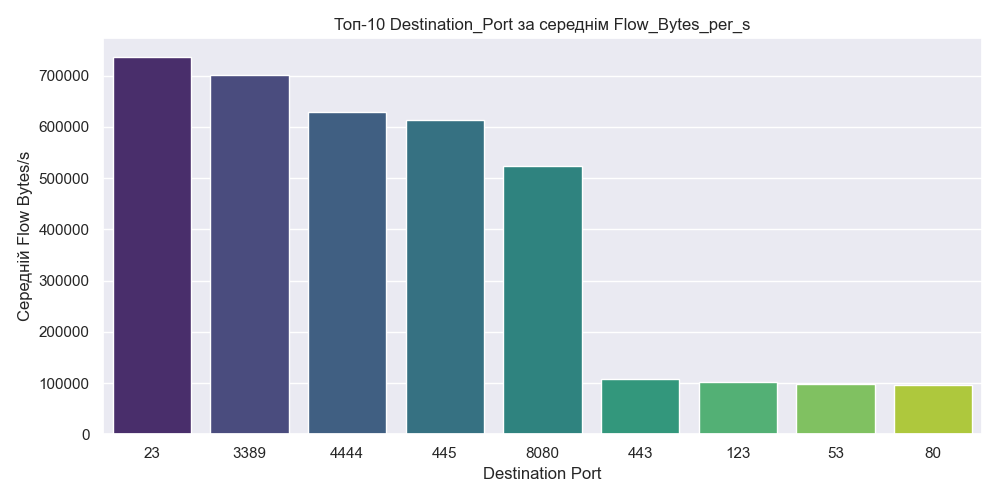
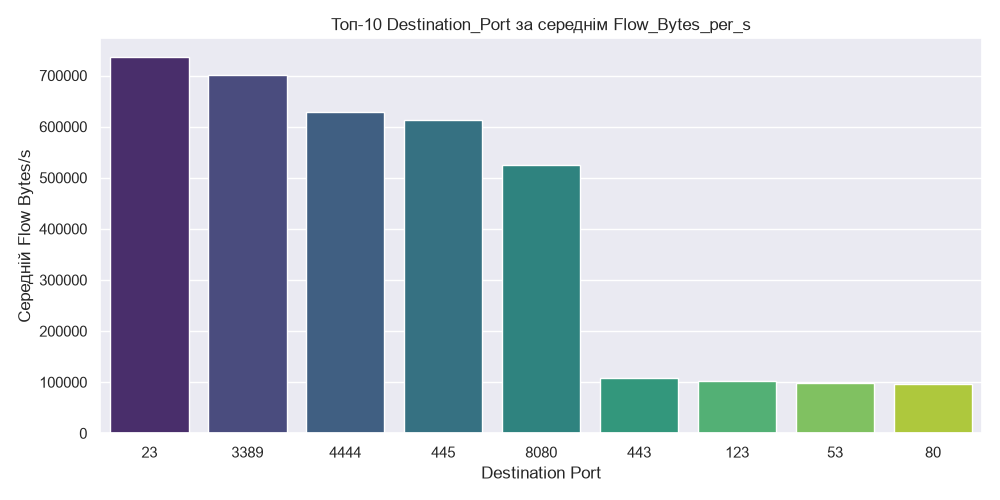
3 и 4 задание

diff --git a/main.py b/main.py
@@ -1,7 +1,10 @@
 import pandas as pd
 import matplotlib.pyplot as plt
 import seaborn as sns
-
+from sklearn.model_selection import train_test_split
+from sklearn.linear_model import Lasso, LinearRegression, Ridge
+from sklearn.metrics import mean_squared_error, r2_score
+from sklearn.preprocessing import PolynomialFeatures
 
 df = pd.read_csv("cybersecurity_network_traffic_synthetic.csv")
 
@@ -225,3 +228,83 @@ for port in top_ports:
         print(f"\nПорт: {port}")
         print(f"  [Flow Duration]   Максимум: {max_duration} | Мінімум: {min_duration}")
         print(f"  [Flow Bytes/s]    Максимум: {max_bytes} | Мінімум: {min_bytes}")
+
+
+features_cols = [
+    'Flow_Duration',
+    'Total_Fwd_Packets',
+    'Total_Backward_Packets',
+    'fwd_bwd_packet_ratio',
+    'bytes_per_packet_mean',
+    'packet_growth_rate',
+]
+
+X = df_transformed.drop(columns=['Flow_Bytes_per_s', 'Label'], errors='ignore')
+X = X.select_dtypes(include=['number'])
+
+y = df_transformed['Flow_Bytes_per_s']
+
+
+X_train, X_test, y_train, y_test = train_test_split(
+    X, y, test_size=0.2, random_state=42
+)
+
+results = {}
+
+# -------------------------------------------------------------
+#                       Linear Regression
+# -------------------------------------------------------------
+lr = LinearRegression()
+lr.fit(X_train, y_train)
+y_pred_lr = lr.predict(X_test)
+results["Linear Regression"] = {
+    "MSE": mean_squared_error(y_test, y_pred_lr),
+    "R2": r2_score(y_test, y_pred_lr),
+}
+
+# -------------------------------------------------------------
+#              Polynomial Regression (ступінь 2)
+# -------------------------------------------------------------
+poly = PolynomialFeatures(degree=2, include_bias=False)
+X_train_poly = poly.fit_transform(X_train)
+X_test_poly = poly.transform(X_test)
+
+poly_lr = LinearRegression()
+poly_lr.fit(X_train_poly, y_train)
+y_pred_poly = poly_lr.predict(X_test_poly)
+results["Polynomial Regression (deg=2)"] = {
+    "MSE": mean_squared_error(y_test, y_pred_poly),
+    "R2": r2_score(y_test, y_pred_poly),
+}
+
+# -------------------------------------------------------------
+#                       Ridge Regression
+# -------------------------------------------------------------
+ridge = Ridge(alpha=1.0, random_state=42)
+ridge.fit(X_train, y_train)
+y_pred_ridge = ridge.predict(X_test)
+results["Ridge Regression"] = {
+    "MSE": mean_squared_error(y_test, y_pred_ridge),
+    "R2": r2_score(y_test, y_pred_ridge),
+}
+
+# -------------------------------------------------------------
+#                       Lasso Regression
+# -------------------------------------------------------------
+lasso = Lasso(alpha=1.0, random_state=42)
+lasso.fit(X_train, y_train)
+y_pred_lasso = lasso.predict(X_test)
+results["Lasso Regression"] = {
+    "MSE": mean_squared_error(y_test, y_pred_lasso),
+    "R2": r2_score(y_test, y_pred_lasso),
+}
+
+
+results_df = pd.DataFrame(results).T
+print(results_df)
+
+
+best_model_name = results_df["MSE"].idxmin()
+print(
+    f"\nНайкраща модель за показником MSE: **{best_model_name}** з мін. помилкою."
+)
